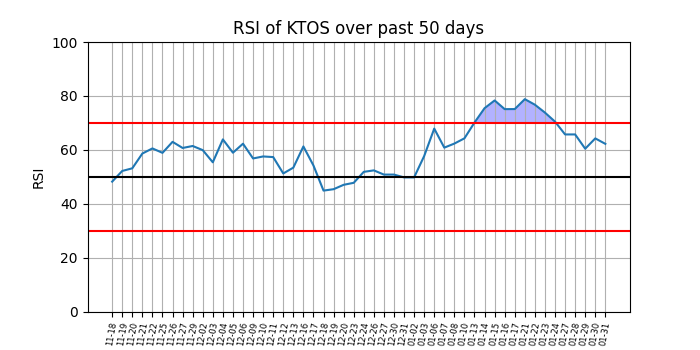
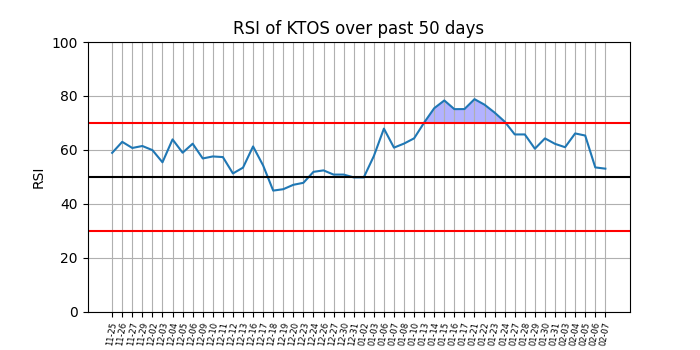
commit for 2025-02-09

diff --git a/_posts/2025-02-09-KTOS.md b/_posts/2025-02-09-KTOS.md
@@ -2,7 +2,7 @@
 layout: post
 title: "KTOS"
 company: Kratos Defense & Security Solutions Inc.
-date: 2025-02-01 -0500
+date: 2025-02-09 -0500
 categories: defense
 ---
 
